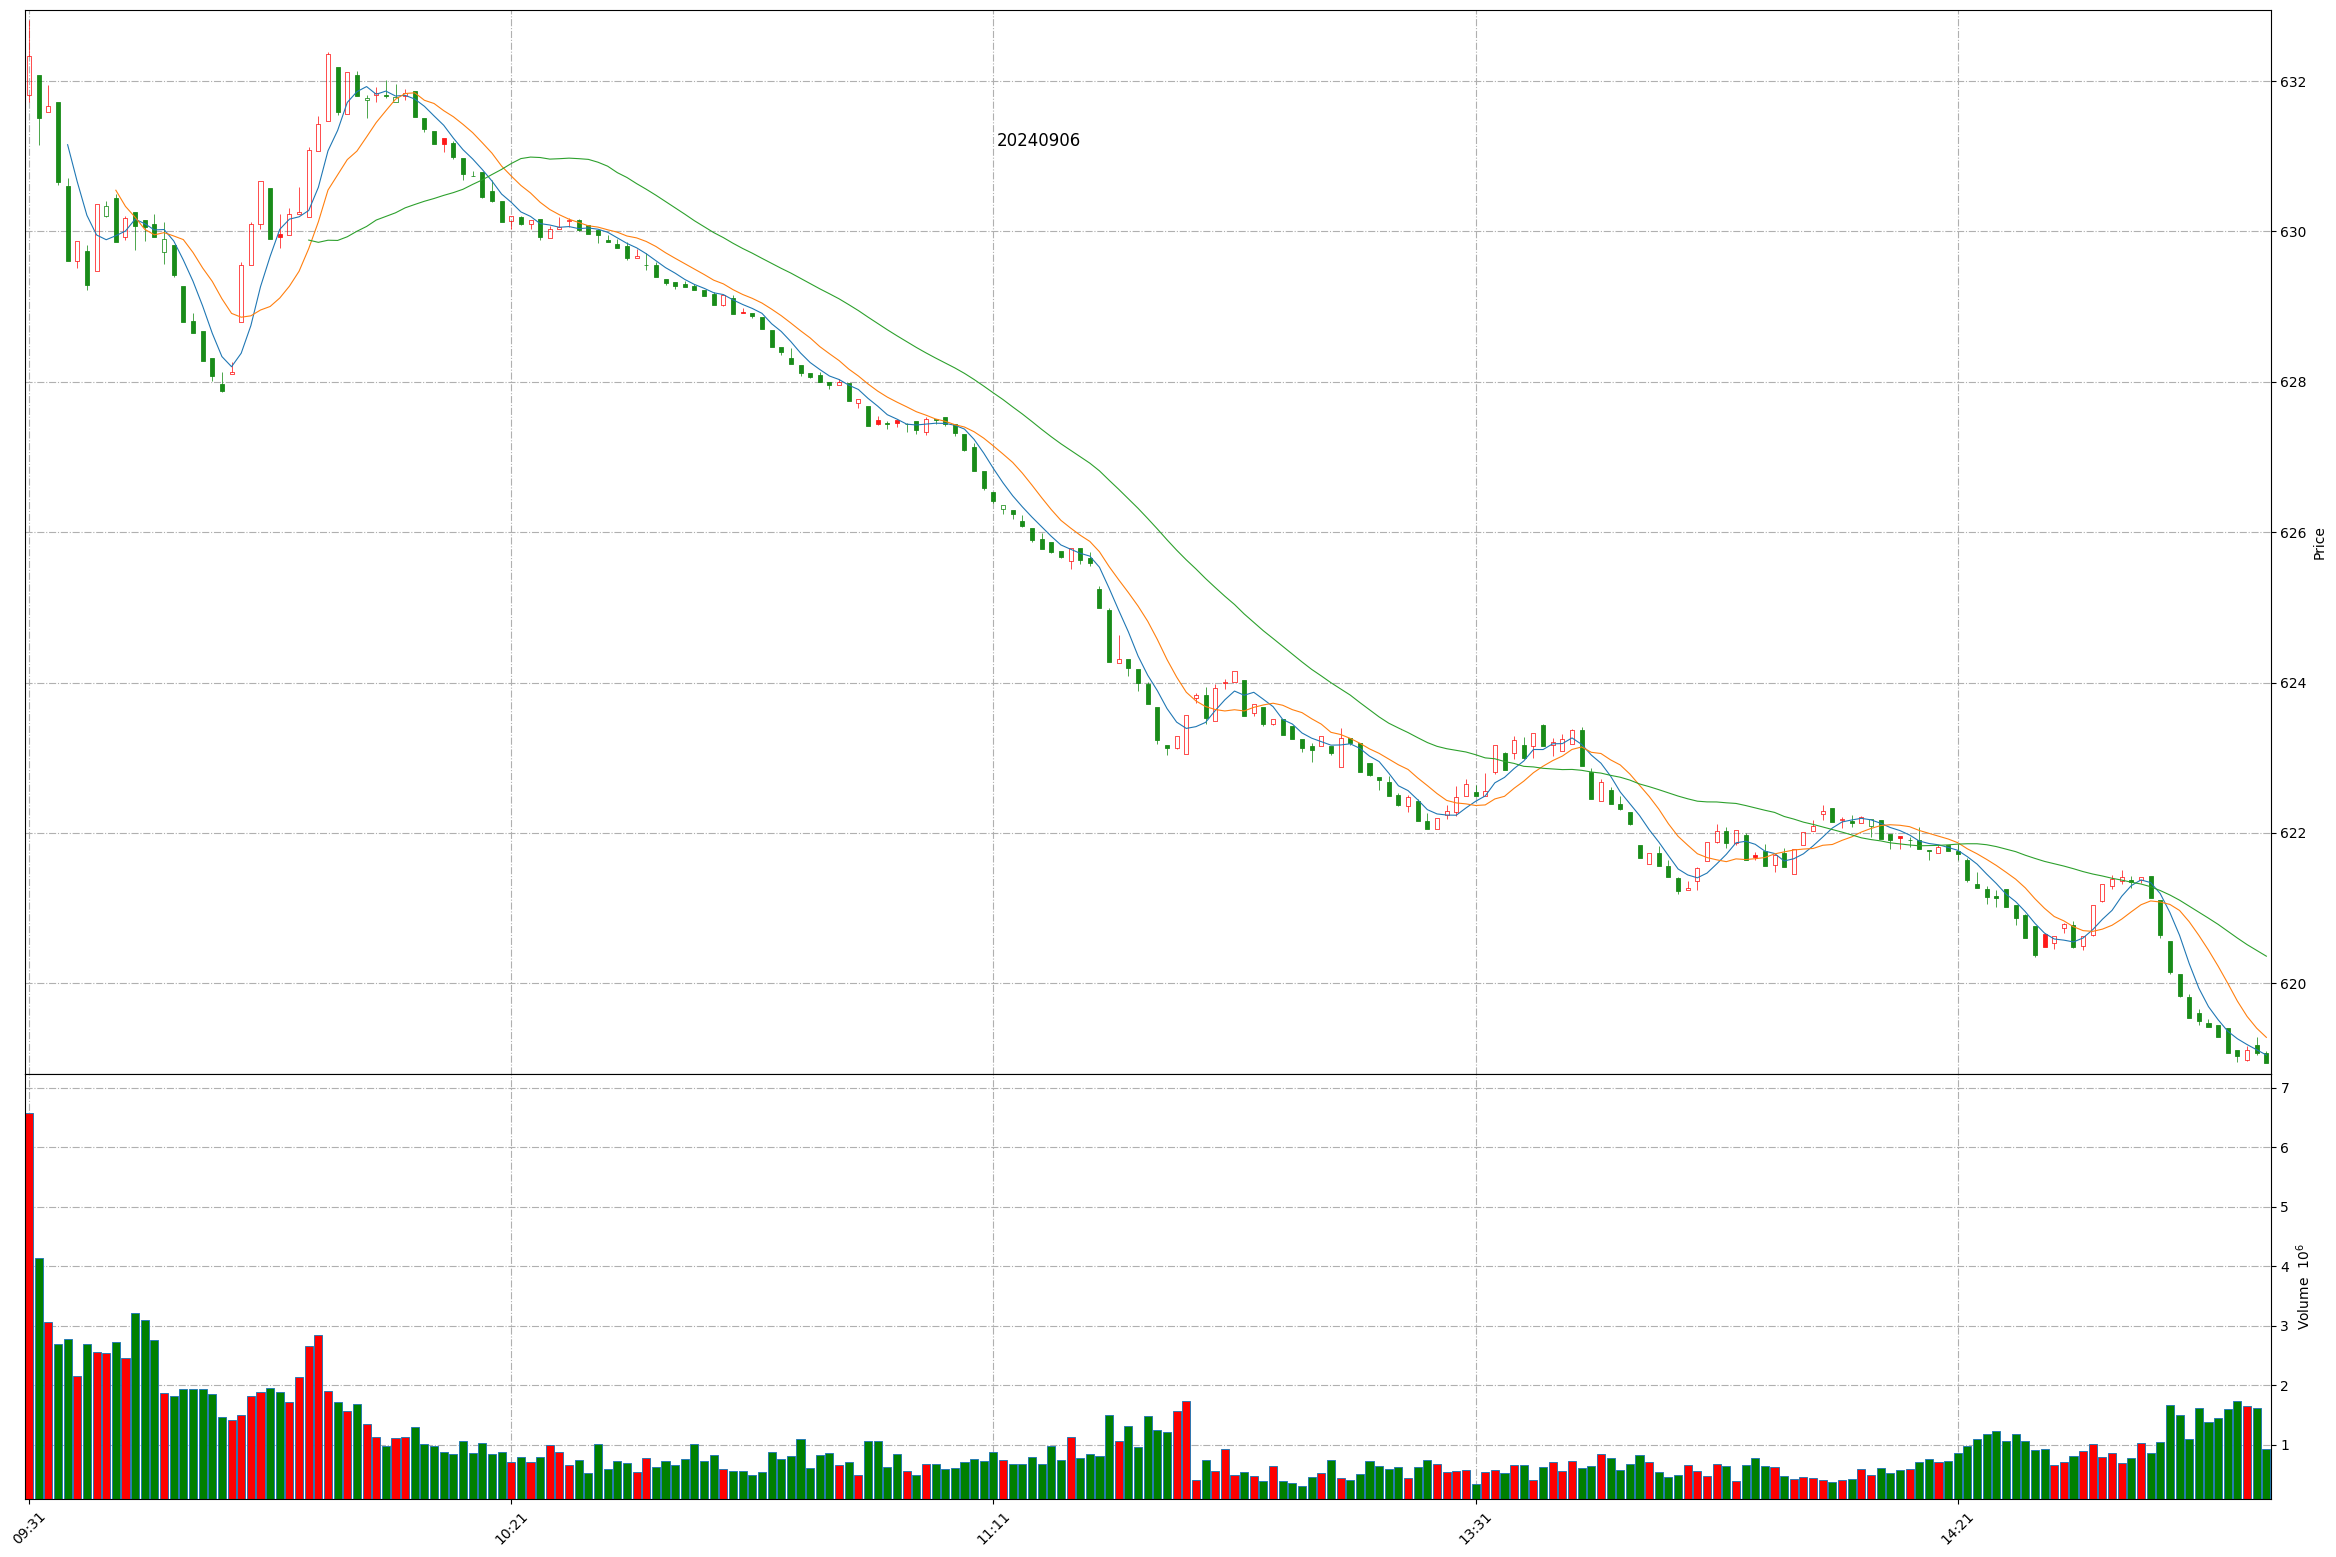
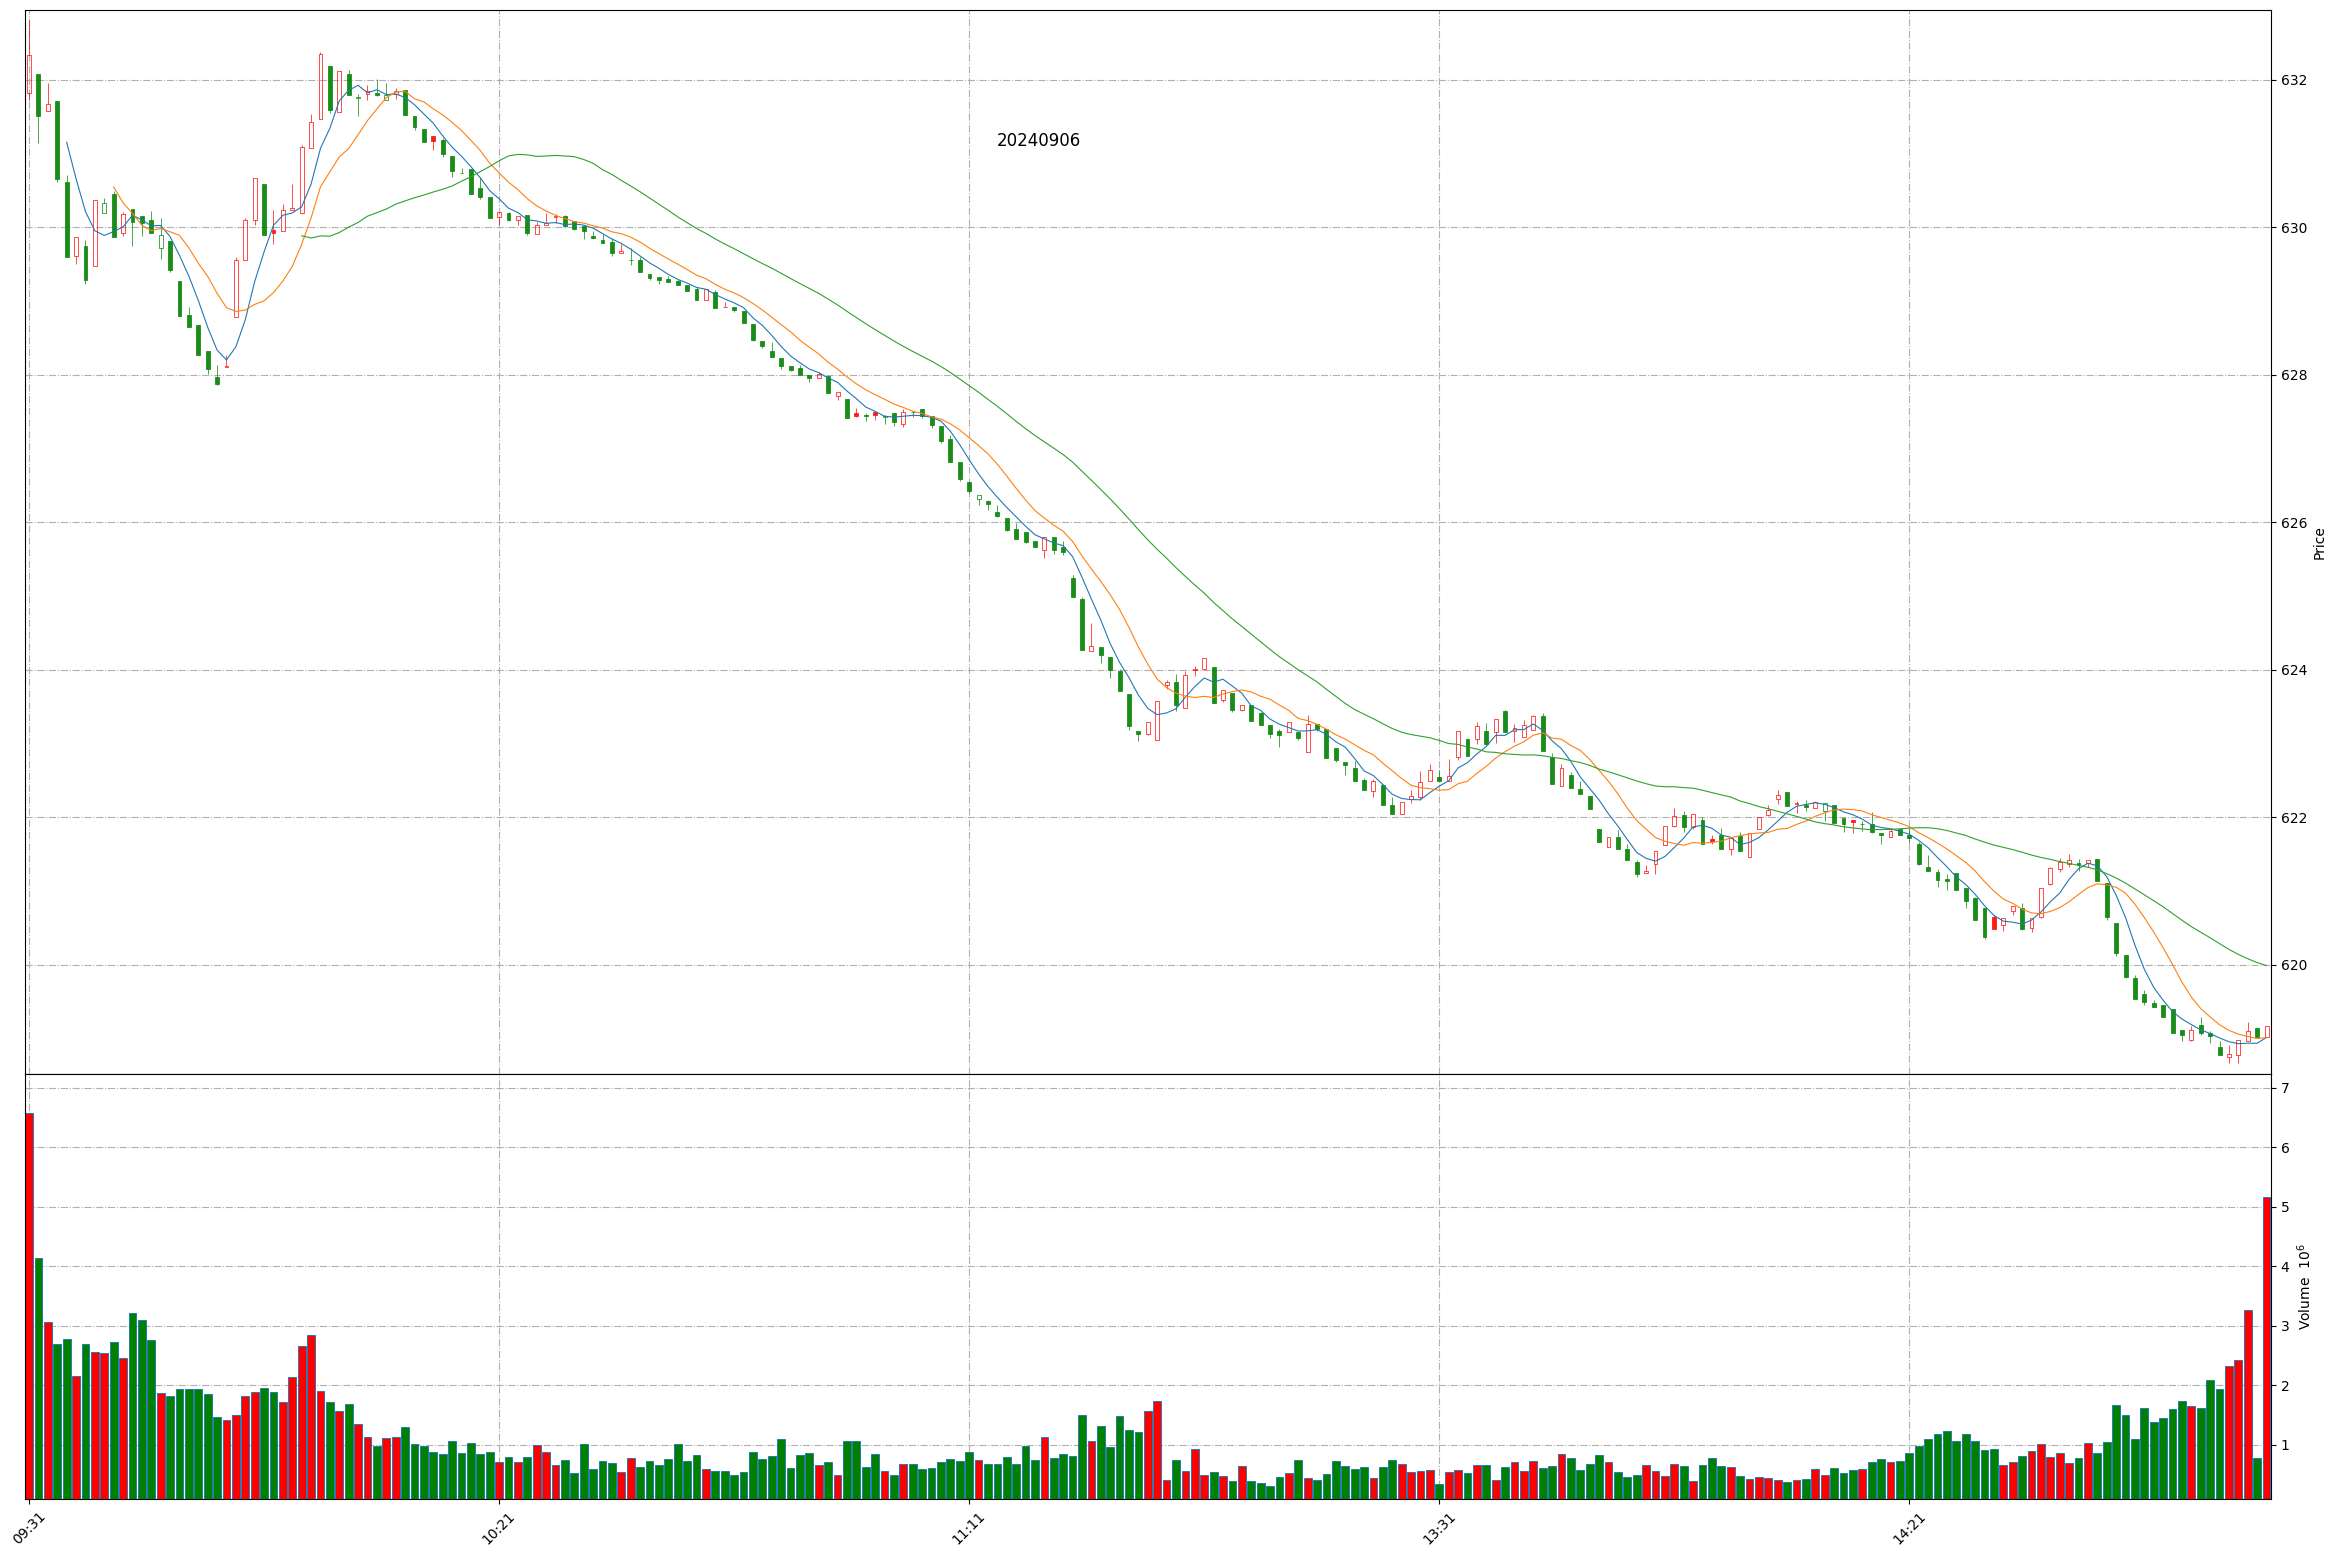
Github action update at 2024-09-06 15:11:23.

diff --git a/README.md b/README.md
@@ -1,11 +1,11 @@
 
 # Daily-A-share-market-quotes 每日 A 股指数（5min 更新）- 20240906
 
-### 上证指数 20240906 14:52
+### 上证指数 20240906 15:11
 ![](./fig/2024/9/20240906-sh000001.png)
 
-### 深证成指 20240906 14:52
+### 深证成指 20240906 15:11
 ![](./fig/2024/9/20240906-sz399001.png)
 
-### 北证50 20240906 14:52
+### 北证50 20240906 15:11
 ![](./fig/2024/9/20240906-bj899050.png)
